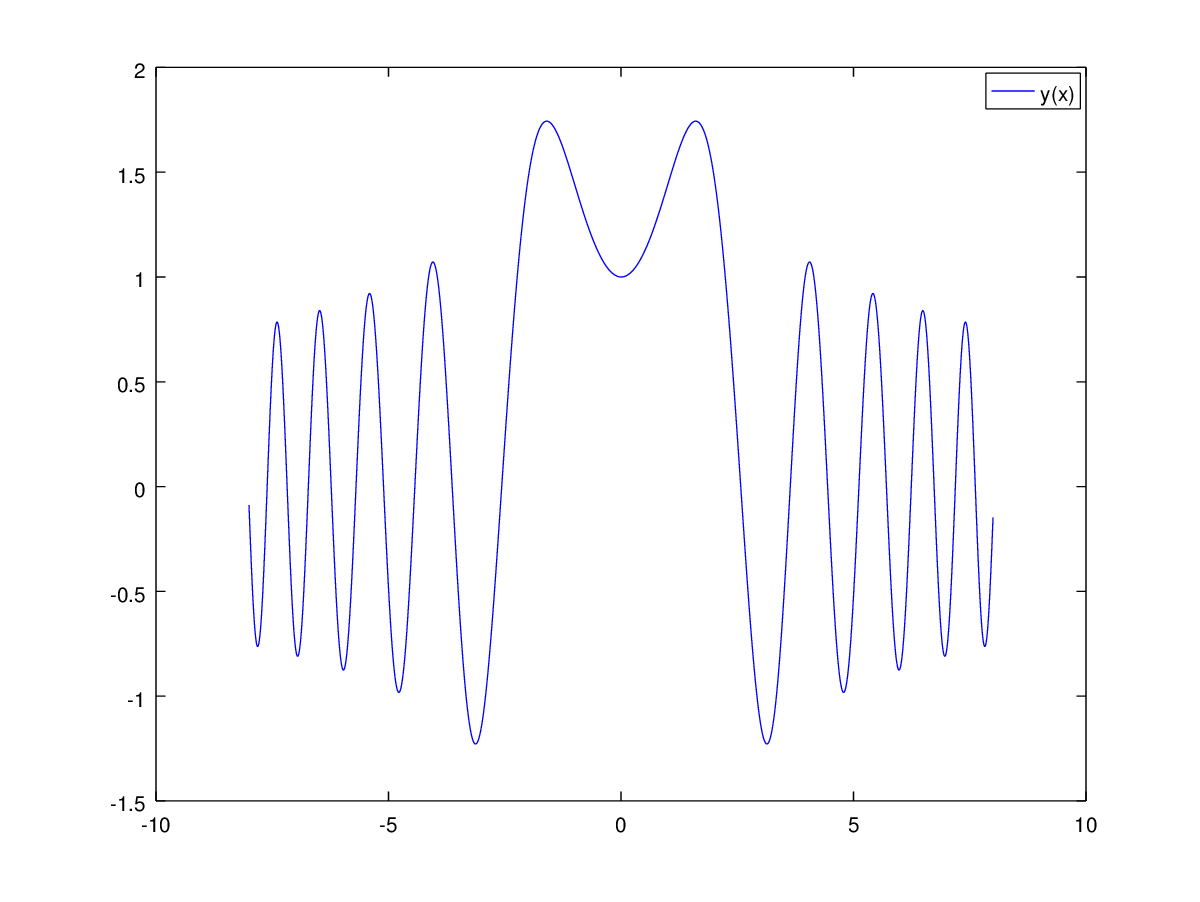
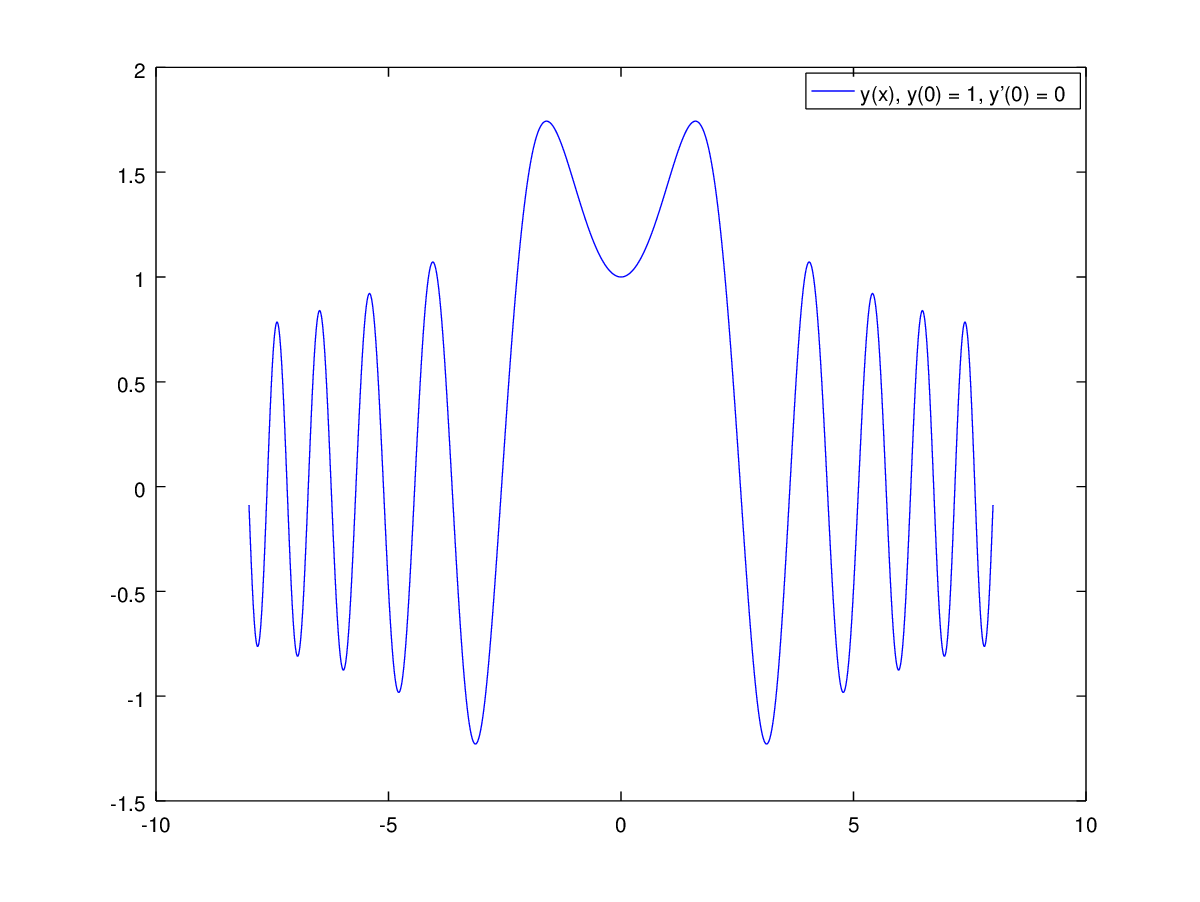
better config

diff --git a/skript/wellen/octave/config.m b/skript/wellen/octave/config.m
@@ -1,5 +1,7 @@
 akmax = 1000;
-kmax = 225;
+kmax = 300;
+
+xmin = 0;
 xmax = 8;
 scalefactor = 100;
 
@@ -7,10 +9,47 @@ A = 1;
 B = 0;
 C = -1;
 
-parabolaformula = '2;x^2-1  ;';
-yformula = '3;y(x), y(0) = 1, y''(0) = 0;';
-
 a0 = 1; # y(0)
 a1 = 0; # y'(0)
 
-save("./config.dat", "akmax", "kmax", "xmax", "scalefactor", "A", "B", "C", "parabolaformula", "yformula", "a0", "a1")
+parabolaformula = '';
+
+signb = '+';
+signc = '+';
+
+if (B < 0)
+    signb = '';
+endif
+
+if (C < 0)
+    signc = '';
+endif
+
+afactor = '';
+bfactor = '';
+cfactor = '';
+
+if (A != 0)
+    if (A == 1)
+        afactor = 'x^2';
+    else
+        afactor = sprintf('%dx^2', A);
+    endif
+endif
+
+if (B != 0)
+    if (B == 1)
+        bfactor = 'x';
+    else
+        bfactor = sprintf('%s%dx', signb, B);
+    endif
+endif
+
+if (C != 0)
+    cfactor = sprintf('%s%d', signc, C);
+endif
+
+parabolaformula = sprintf('2;%s%s%s   ;', afactor, bfactor, cfactor);
+yformula = sprintf('3;y(x), y(0) = %d, y''(0) = %d;', a0, a1);
+
+save("./config.dat", "akmax", "kmax", "xmin", "xmax", "scalefactor", "A", "B", "C", "parabolaformula", "yformula", "a0", "a1");

diff --git a/skript/wellen/octave/yx.m b/skript/wellen/octave/yx.m
@@ -1,21 +1,21 @@
 load("./config.dat");
 load("./ak.dat");
 
-datasize = 2 * scalefactor * xmax;
+datasize = scalefactor * (xmax - xmin);
 
-xaxis = linspace(-xmax, xmax, datasize + 1);
+xaxis = linspace(xmin, xmax, datasize + 1);
 y = zeros(datasize, 1);
 p = zeros(datasize, 1);
-for x = (-xmax:1 / scalefactor:xmax)
-    point = a0 + a1 * x;
+for x = (xmin:1 / scalefactor:xmax)
+    yx = a0 + a1 * x;
     for k = (2:kmax)
         akminus2 = a(k + 1);
         akminus3 = a(k);
         akminus4 = a(k - 1);
-        point += -1 / (k * (k - 1)) * (A * akminus4 + B * akminus3 + C * akminus2) * x^k;
+        yx += -1 / (k * (k - 1)) * (A * akminus4 + B * akminus3 + C * akminus2) * x^k;
     endfor
-    p(round((x + xmax) * scalefactor) + 1) = A * x^2 + B * x + C;
-    y(round((x + xmax) * scalefactor) + 1) = point;
+    p(round((x - xmin) * scalefactor) + 1) = A * x^2 + B * x + C;
+    y(round((x - xmin) * scalefactor) + 1) = yx;
 endfor
 
 save yx.dat y
